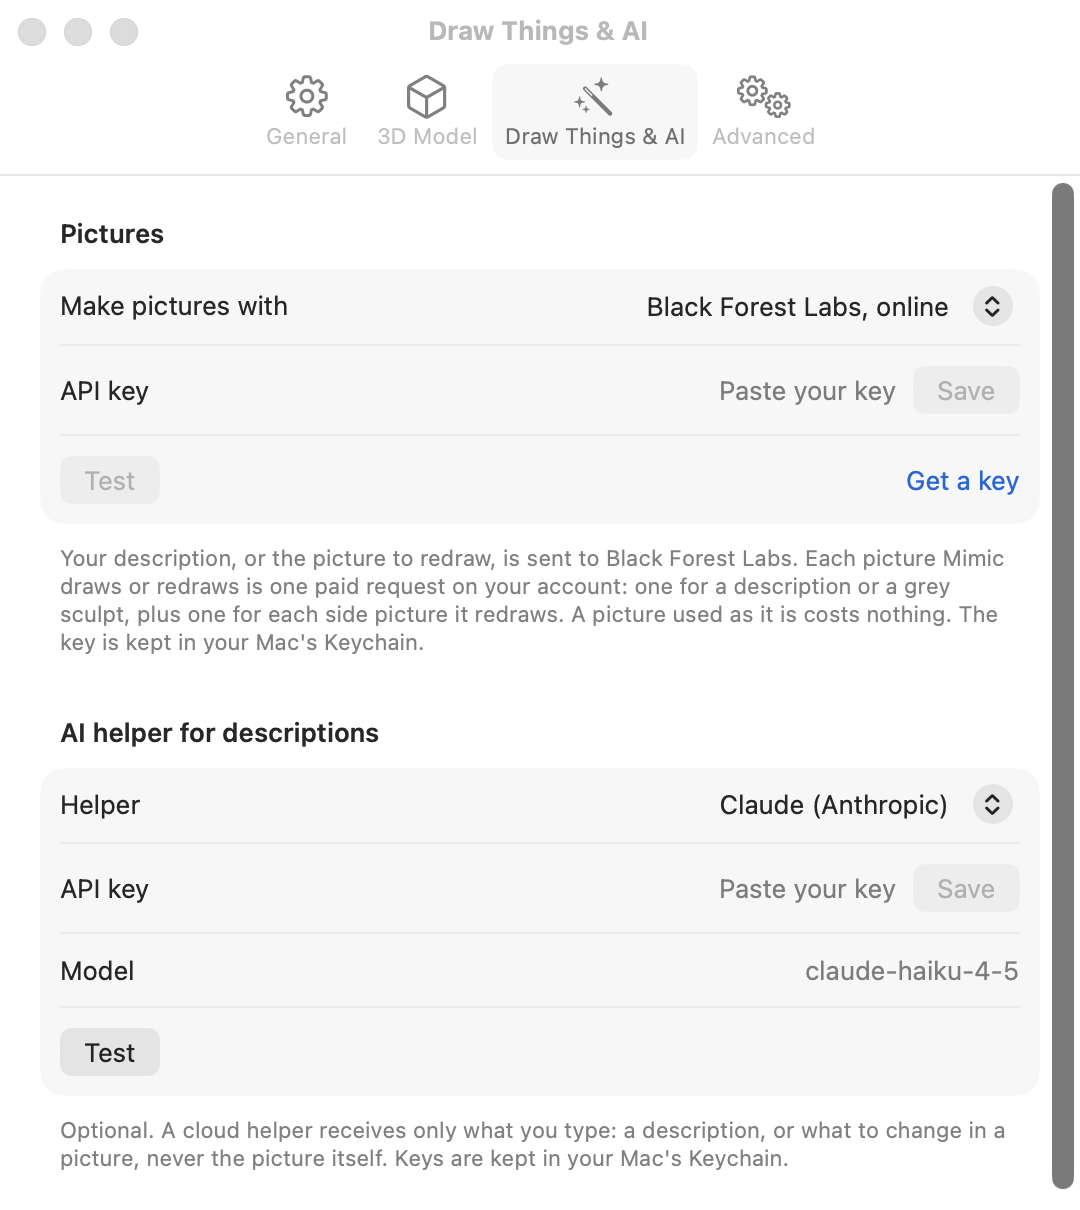
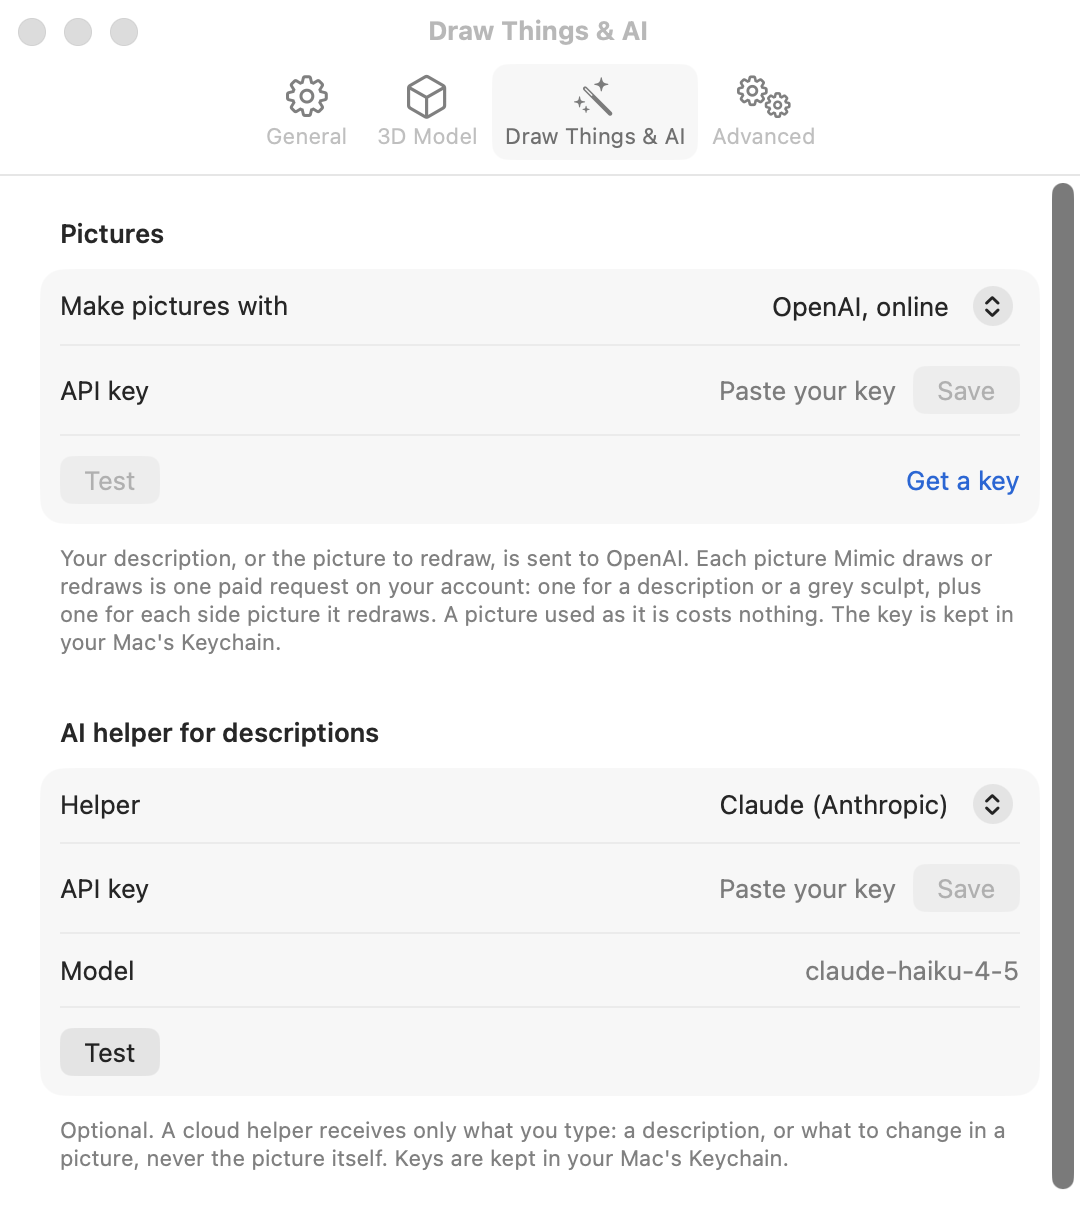
docs: retake the online pictures screenshot with OpenAI chosen

Changed region(s): [[0.0611, 0.4587, 0.9472, 0.5504], [0.5806, 0.2446, 0.7944, 0.2752]]

diff --git a/docs/settings.md b/docs/settings.md
@@ -171,7 +171,7 @@ the key works and says **It works.**, or what went wrong. While an online servic
 tab doesn't show the Draw Things steps below, and the General tab doesn't show **Open Draw Things
 when needed**.
 
-![Settings, Draw Things & AI tab: Make pictures with set to Black Forest Labs, online, an empty API key field with Save, Test dimmed, Get a key, and what each picture costs](images/screens/settings-pictures-online.png){ width="540" }
+![Settings, Draw Things & AI tab: Make pictures with set to OpenAI, online, an empty API key field with Save, Test dimmed, Get a key, and what each picture costs](images/screens/settings-pictures-online.png){ width="540" }
 
 !!! note "What the online service sees, and what it costs"
     With **Black Forest Labs, online** or **OpenAI, online**, your description, or the picture to
